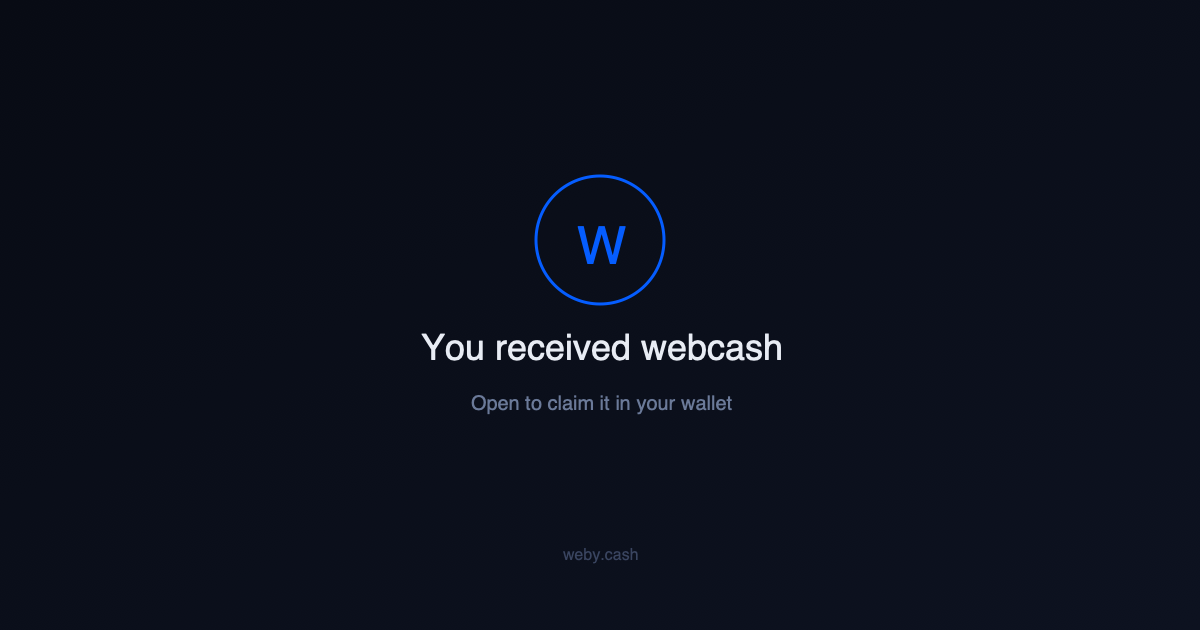
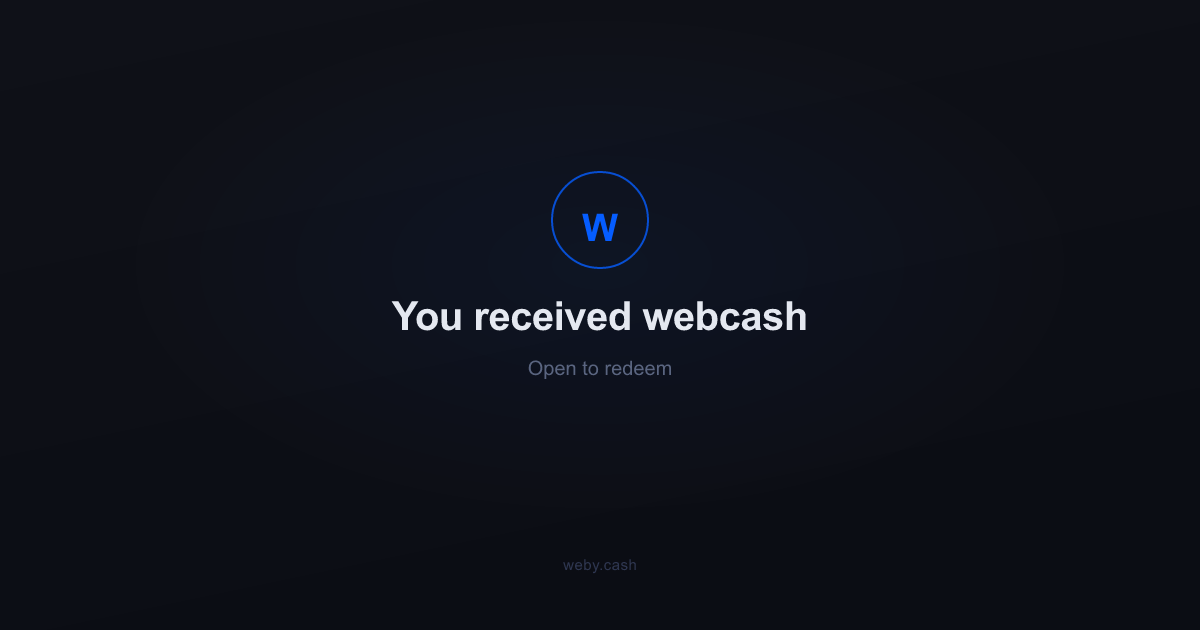
Proper OG image via resvg, fix share to show card preview
- Regenerated og.png with @user/resvg-js (42KB, was 568KB)
- Added og:image:type, og:image:secure_url meta tags
- Share via only sends URL (no text) so platforms render OG card
  instead of showing raw share text
- Added scripts/gen-og.mjs for reproducible OG image generation

diff --git a/src/app.html b/src/app.html
@@ -21,17 +21,19 @@
 		<meta property="og:type" content="website" />
 		<meta property="og:site_name" content="Weby Wallet" />
 		<meta property="og:title" content="You received webcash" />
-		<meta property="og:description" content="Open to claim it in your wallet" />
+		<meta property="og:description" content="Open to redeem" />
 		<meta property="og:image" content="https://weby.cash/wallet/og.png" />
+		<meta property="og:image:secure_url" content="https://weby.cash/wallet/og.png" />
+		<meta property="og:image:type" content="image/png" />
 		<meta property="og:image:width" content="1200" />
 		<meta property="og:image:height" content="630" />
-		<meta property="og:image:alt" content="Weby Wallet — You received webcash" />
+		<meta property="og:image:alt" content="You received webcash — open to redeem" />
 		<meta property="og:url" content="https://weby.cash/wallet" />
 
 		<!-- Twitter / X -->
 		<meta name="twitter:card" content="summary_large_image" />
 		<meta name="twitter:title" content="You received webcash" />
-		<meta name="twitter:description" content="Open to claim it in your wallet" />
+		<meta name="twitter:description" content="Open to redeem" />
 		<meta name="twitter:image" content="https://weby.cash/wallet/og.png" />
 
 		<!-- Theme -->

diff --git a/src/lib/components/wallet/PaymentResult.svelte b/src/lib/components/wallet/PaymentResult.svelte
@@ -29,7 +29,7 @@
 
 	const copyWebcash = async () => { await navigator.clipboard.writeText(webcash); copied = true; setTimeout(() => { copied = false; }, 2000); };
 	const copyLink = async () => { await navigator.clipboard.writeText(walletUrl); copiedLink = true; setTimeout(() => { copiedLink = false; }, 2000); };
-	const shareNative = async () => { if (navigator.share) await navigator.share({ title: 'Webcash Payment', text: shareText, url: walletUrl }); };
+	const shareNative = async () => { if (navigator.share) await navigator.share({ url: walletUrl }); };
 	const canShare = typeof navigator !== 'undefined' && typeof navigator.share === 'function';
 </script>
 